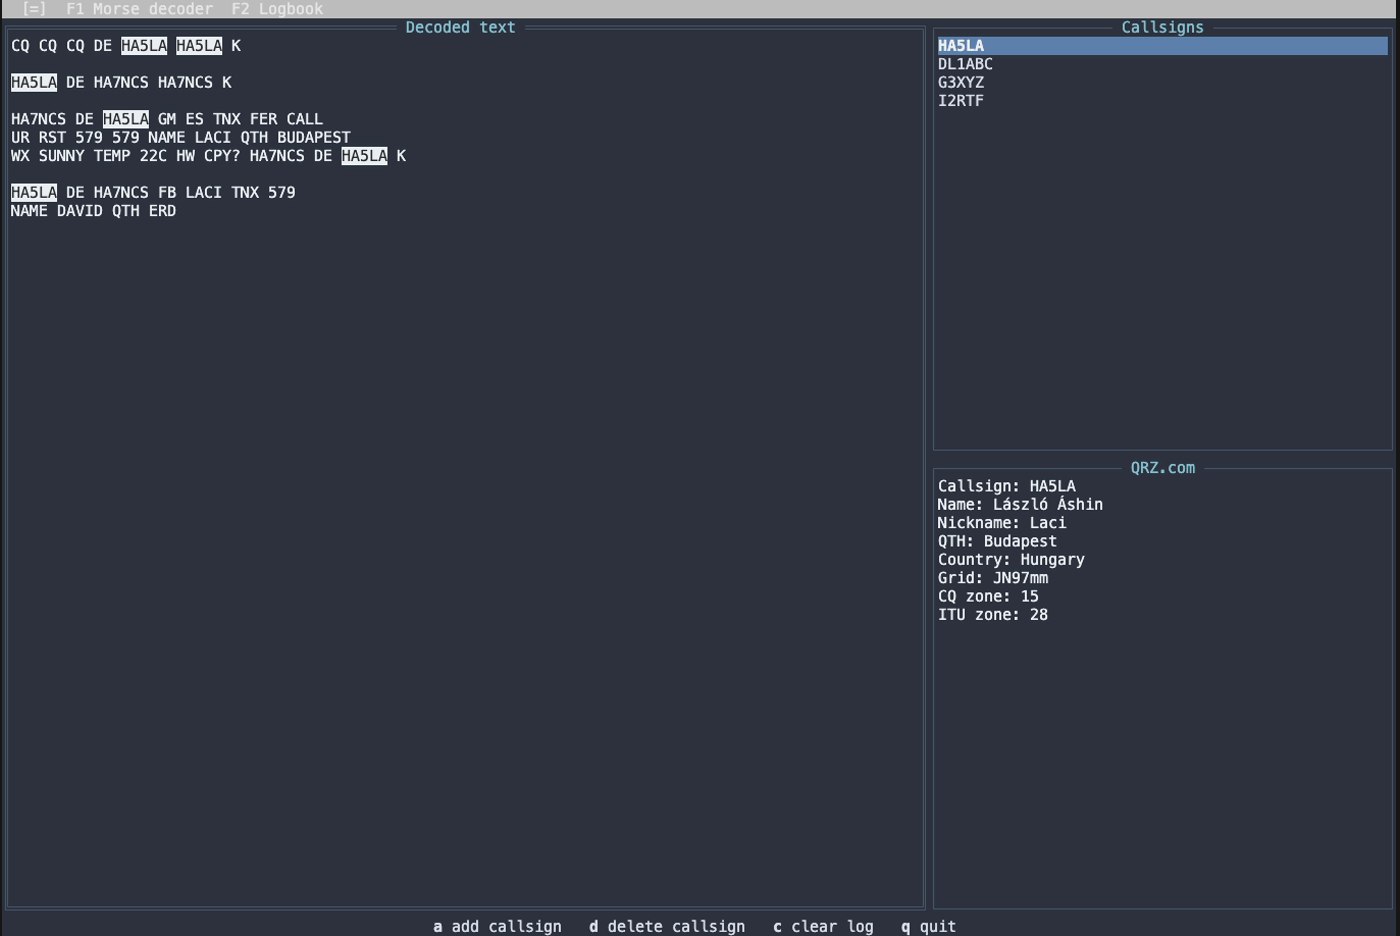
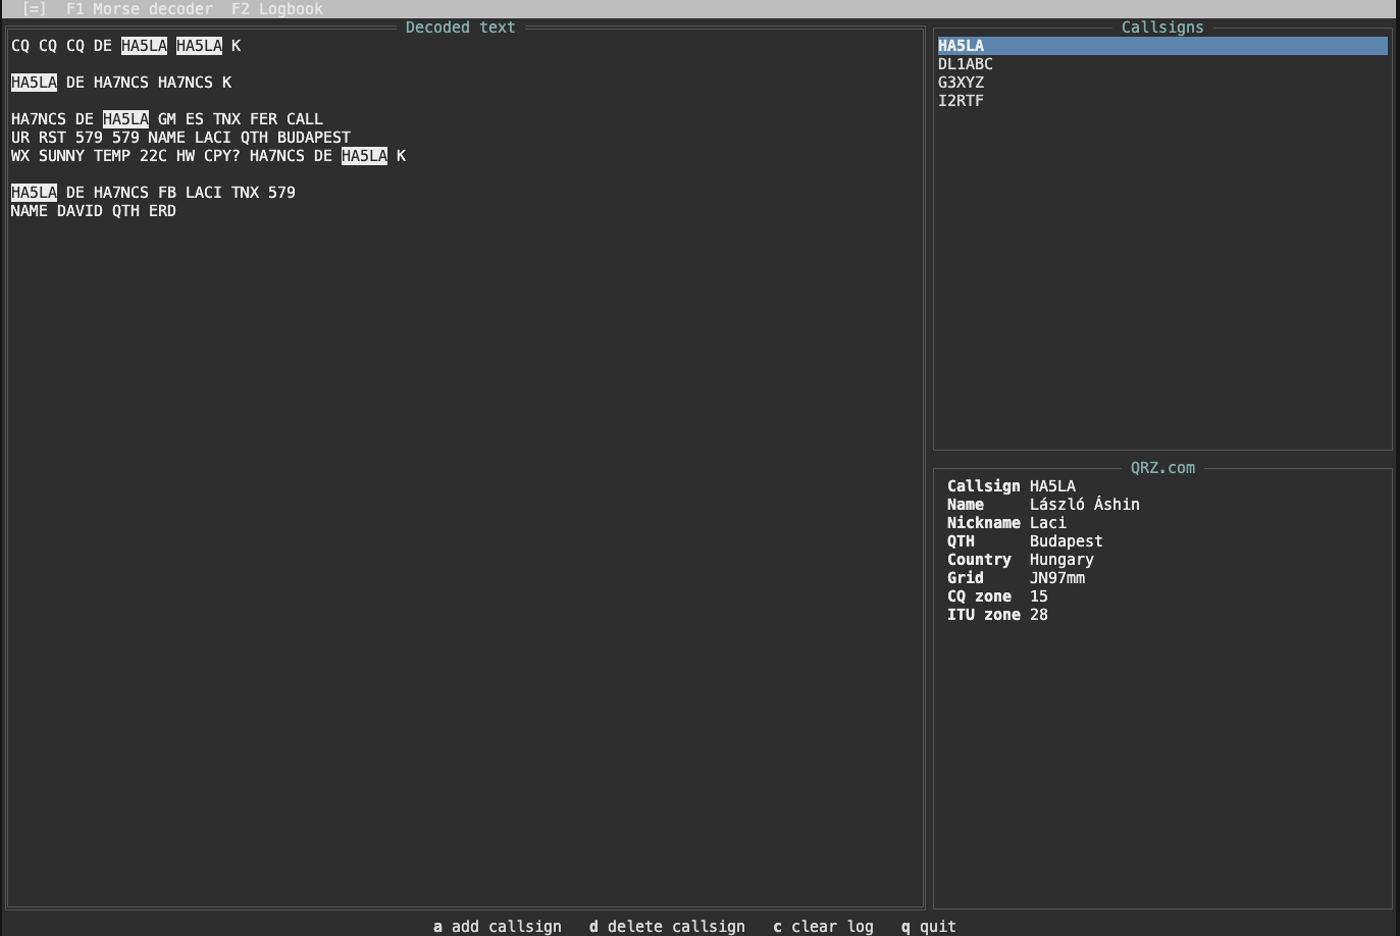
callsign details in morse view

Changed region(s): [[0.645, 0.4957, 0.86, 0.6816], [0.7986, 0.0, 0.86, 0.031], [0.3071, 0.0, 0.3686, 0.031]]

diff --git a/internal/decoder/tui/callsign_details.go b/internal/decoder/tui/callsign_details.go
@@ -1,0 +1,152 @@
+package tui
+
+import (
+	"strings"
+
+	"ditdah/internal/callsign"
+	"ditdah/internal/optional"
+	"ditdah/internal/tui/components"
+
+	"github.com/gdamore/tcell/v2"
+	"github.com/mattn/go-runewidth"
+	"github.com/rivo/tview"
+)
+
+type callsignDetailField struct {
+	label string
+	value string
+}
+
+type callsignDetailsView struct {
+	components.TextView
+	fields        []callsignDetailField
+	message       string
+	renderedWidth int
+}
+
+func newCallsignDetailsView(controls components.Factory) *callsignDetailsView {
+	text := controls.TextView()
+	text.SetDynamicColors(true)
+	text.SetScrollable(true)
+	text.SetWrap(false)
+	text.SetBorder(" QRZ.com ")
+	return &callsignDetailsView{TextView: text, renderedWidth: -1}
+}
+
+func (v *callsignDetailsView) setMessage(message string) {
+	v.fields = nil
+	v.message = message
+	v.renderedWidth = -1
+	v.SetText(message)
+	v.ScrollToStart()
+}
+
+func (v *callsignDetailsView) setEntry(entry callsign.Entry) {
+	if entry.Status == callsign.StatusError {
+		v.setMessage(strings.TrimSpace(entry.Error))
+		return
+	}
+	record, present := entry.Record.Get()
+	if !present {
+		v.setMessage("No QRZ.com details available.")
+		return
+	}
+
+	v.fields = []callsignDetailField{
+		{label: "Callsign", value: record.Callsign},
+		optionalCallsignDetail("Name", record.Name),
+		optionalCallsignDetail("Nickname", record.Nickname),
+		optionalCallsignDetail("QTH", record.QTH),
+		optionalCallsignDetail("State", record.State),
+		optionalCallsignDetail("Country", record.Country),
+		optionalCallsignDetail("Grid", record.Grid),
+		optionalCallsignDetail("CQ zone", record.CQZone),
+		optionalCallsignDetail("ITU zone", record.ITUZone),
+		optionalCallsignDetail("QRZ", record.QRZURL),
+	}
+	v.fields = visibleCallsignDetails(v.fields)
+	v.message = ""
+	v.renderedWidth = -1
+	v.SetText("")
+	v.ScrollToStart()
+}
+
+func (v *callsignDetailsView) Draw(screen tcell.Screen) {
+	_, _, width, _ := v.InnerRect()
+	if width != v.renderedWidth {
+		if v.fields != nil {
+			v.SetText(renderCallsignDetails(v.fields, width))
+		} else {
+			v.SetText(strings.Join(tview.WordWrap(v.message, width), "\n"))
+		}
+		v.renderedWidth = width
+	}
+	v.TextView.Draw(screen)
+}
+
+func optionalCallsignDetail(
+	label string,
+	value optional.Value[string],
+) callsignDetailField {
+	text, present := value.Get()
+	if !present {
+		return callsignDetailField{}
+	}
+	return callsignDetailField{label: label, value: strings.TrimSpace(text)}
+}
+
+func visibleCallsignDetails(
+	fields []callsignDetailField,
+) []callsignDetailField {
+	visible := fields[:0]
+	for _, field := range fields {
+		if field.value != "" {
+			visible = append(visible, field)
+		}
+	}
+	return visible
+}
+
+func renderCallsignDetails(fields []callsignDetailField, width int) string {
+	if width < 1 {
+		return ""
+	}
+	labelWidth := 0
+	for _, field := range fields {
+		labelWidth = max(labelWidth, runewidth.StringWidth(field.label))
+	}
+	labelWidth = min(labelWidth, max(1, width-3))
+	valueWidth := width - labelWidth - 2
+
+	var text strings.Builder
+	for _, field := range fields {
+		if valueWidth < 1 {
+			for _, line := range tview.WordWrap(field.label+" "+field.value, width) {
+				text.WriteString(tview.Escape(line))
+				text.WriteByte('\n')
+			}
+			continue
+		}
+
+		values := tview.WordWrap(field.value, valueWidth)
+		if len(values) == 0 {
+			values = []string{""}
+		}
+		for index, value := range values {
+			label := ""
+			if index == 0 {
+				label = runewidth.Truncate(field.label, labelWidth, "")
+				label = runewidth.FillRight(label, labelWidth)
+				label = "[::b]" + tview.Escape(label) + "[-:-:-]"
+			} else {
+				label = strings.Repeat(" ", labelWidth)
+			}
+			text.WriteByte(' ')
+			text.WriteString(label)
+			text.WriteByte(' ')
+			text.WriteString(tview.Escape(value))
+			text.WriteByte('\n')
+		}
+	}
+	return text.String()
+}

diff --git a/internal/decoder/tui/page.go b/internal/decoder/tui/page.go
@@ -10,7 +10,6 @@ import (
 	"ditdah/internal/audio"
 	"ditdah/internal/callsign"
 	domain "ditdah/internal/decoder"
-	"ditdah/internal/optional"
 	"ditdah/internal/radio"
 	"ditdah/internal/settings"
 	"ditdah/internal/syncutil"
@@ -51,7 +50,7 @@ type page struct {
 	output           components.TextView
 	right            tview.Primitive
 	callsignList     components.Table
-	details          components.TextView
+	details          *callsignDetailsView
 	audioStatus      string
 	radioStatus      string
 	lookups          syncutil.Mailbox[lookupRequest]
@@ -161,12 +160,8 @@ func newPageWithState(
 
 	page.output = output
 	page.callsignList = page.newCallsignList(controls)
-	page.details = controls.TextView()
+	page.details = newCallsignDetailsView(controls)
 	page.details.SetStyle(components.TextViewPrimary)
-	page.details.SetBorder(" QRZ.com ")
-	page.details.SetScrollable(true)
-	page.details.SetWrap(true)
-	page.details.SetWordWrap(true)
 	page.renderCallsigns()
 	page.renderDecodedText()
 
@@ -315,11 +310,11 @@ func (p *page) showLookupResult(
 		}
 		if err != nil {
 			p.details.SetStyle(components.TextViewDanger)
-			p.details.SetText("Error: " + err.Error())
+			p.details.setMessage("Error: " + err.Error())
 			return
 		}
 		p.details.SetStyle(components.TextViewPrimary)
-		p.details.SetText(formatCallsignDetails(entry))
+		p.details.setEntry(entry)
 	})
 }
 
@@ -328,32 +323,6 @@ func (p *page) openCreateQSO() {
 		return
 	}
 	p.showNewQSOEditor(p, p.selectedCallsign)
-}
-
-func formatCallsignDetails(entry callsign.Entry) string {
-	if entry.Status == callsign.StatusError {
-		return strings.TrimSpace(entry.Error)
-	}
-	record, present := entry.Record.Get()
-	if !present {
-		return "No QRZ.com details available."
-	}
-	lines := []string{"Callsign: " + record.Callsign}
-	appendOptionalDetail := func(label string, value optional.Value[string]) {
-		if text, ok := value.Get(); ok && strings.TrimSpace(text) != "" {
-			lines = append(lines, label+": "+text)
-		}
-	}
-	appendOptionalDetail("Name", record.Name)
-	appendOptionalDetail("Nickname", record.Nickname)
-	appendOptionalDetail("QTH", record.QTH)
-	appendOptionalDetail("State", record.State)
-	appendOptionalDetail("Country", record.Country)
-	appendOptionalDetail("Grid", record.Grid)
-	appendOptionalDetail("CQ zone", record.CQZone)
-	appendOptionalDetail("ITU zone", record.ITUZone)
-	appendOptionalDetail("QRZ", record.QRZURL)
-	return strings.Join(lines, "\n")
 }
 
 func (p *page) runSession(

diff --git a/internal/decoder/tui/callsign_details_test.go b/internal/decoder/tui/callsign_details_test.go
@@ -1,0 +1,79 @@
+package tui
+
+import (
+	"strings"
+	"testing"
+
+	"ditdah/internal/callsign"
+	"ditdah/internal/optional"
+
+	"github.com/gdamore/tcell/v2"
+)
+
+func TestCallsignDetailsAlignLabelsAndValues(t *testing.T) {
+	view := newCallsignDetailsView(newTestHost().Components())
+	view.setEntry(callsign.Entry{
+		Status: callsign.StatusReady,
+		Record: optional.Some(callsign.Record{
+			Callsign: "HA5LA",
+			Name:     optional.Some("Laszlo"),
+			Nickname: optional.Some("Laci"),
+			Grid:     optional.Some("JN97mm"),
+		}),
+	})
+
+	screen := newCallsignDetailsScreen(t, 48, 8)
+	view.SetRect(0, 0, 48, 8)
+	view.Draw(screen)
+
+	assertCallsignDetailsRune(t, screen, 2, 1, 'C')
+	assertCallsignDetailsRune(t, screen, 11, 1, 'H')
+	assertCallsignDetailsRune(t, screen, 11, 2, 'L')
+	assertCallsignDetailsRune(t, screen, 11, 3, 'L')
+	assertCallsignDetailsRune(t, screen, 11, 4, 'J')
+}
+
+func TestCallsignDetailsIndentWrappedValues(t *testing.T) {
+	view := newCallsignDetailsView(newTestHost().Components())
+	view.fields = []callsignDetailField{{
+		label: "Name",
+		value: strings.Repeat("Long value ", 8),
+	}}
+	view.renderedWidth = -1
+
+	screen := newCallsignDetailsScreen(t, 24, 8)
+	view.SetRect(0, 0, 24, 8)
+	view.Draw(screen)
+
+	assertCallsignDetailsRune(t, screen, 7, 1, 'L')
+	assertCallsignDetailsRune(t, screen, 7, 2, 'v')
+}
+
+func newCallsignDetailsScreen(
+	t *testing.T,
+	width int,
+	height int,
+) tcell.SimulationScreen {
+	t.Helper()
+	screen := tcell.NewSimulationScreen("UTF-8")
+	if err := screen.Init(); err != nil {
+		t.Fatal(err)
+	}
+	t.Cleanup(screen.Fini)
+	screen.SetSize(width, height)
+	return screen
+}
+
+func assertCallsignDetailsRune(
+	t *testing.T,
+	screen tcell.SimulationScreen,
+	x int,
+	y int,
+	want rune,
+) {
+	t.Helper()
+	got, _, _, _ := screen.GetContent(x, y)
+	if got != want {
+		t.Fatalf("screen cell (%d, %d) = %q, want %q", x, y, got, want)
+	}
+}

diff --git a/internal/decoder/tui/page_test.go b/internal/decoder/tui/page_test.go
@@ -396,9 +396,10 @@ func TestPageLooksUpSelectedCallsignDuringRun(t *testing.T) {
 	}
 	close(lookup.release)
 	waitForSignal(t, host.updated, "callsign details update")
-	if details := page.details.Text(); !strings.Contains(details, "Name: Jane Doe") ||
-		!strings.Contains(details, "Country: Germany") ||
-		!strings.Contains(details, "Grid: JO62") {
+	details := renderCallsignDetails(page.details.fields, 46)
+	if !strings.Contains(details, "Name") || !strings.Contains(details, "Jane Doe") ||
+		!strings.Contains(details, "Country") || !strings.Contains(details, "Germany") ||
+		!strings.Contains(details, "Grid") || !strings.Contains(details, "JO62") {
 		t.Fatalf("details = %q", details)
 	}
 

diff --git a/internal/decoder/tui/screenshot.go b/internal/decoder/tui/screenshot.go
@@ -26,7 +26,7 @@ func NewScreenshotPage(host ui.PageHost) ui.Page {
 			"NAME DAVID QTH ERD\n",
 	)
 	page.renderDecodedText()
-	page.details.SetText(formatCallsignDetails(callsign.Entry{
+	page.details.setEntry(callsign.Entry{
 		Status: callsign.StatusReady,
 		Record: optional.Some(callsign.Record{
 			Callsign: "HA5LA",
@@ -38,6 +38,6 @@ func NewScreenshotPage(host ui.PageHost) ui.Page {
 			CQZone:   optional.Some("15"),
 			ITUZone:  optional.Some("28"),
 		}),
-	}))
+	})
 	return page
 }

diff --git a/internal/decoder/tui/callsigns.go b/internal/decoder/tui/callsigns.go
@@ -70,10 +70,10 @@ func (p *page) requestSelectedCallsign() {
 	}
 	if request.callsign == "" {
 		p.details.SetStyle(components.TextViewPrimary)
-		p.details.SetText("")
+		p.details.setMessage("")
 	} else {
 		p.details.SetStyle(components.TextViewMuted)
-		p.details.SetText("Loading " + request.callsign + "...")
+		p.details.setMessage("Loading " + request.callsign + "...")
 	}
 	p.lookups.Send(request)
 	p.host.Refresh()

diff --git a/ROADMAP.md b/ROADMAP.md
@@ -103,6 +103,7 @@ This document records implementation decisions and future technical work.
 - [x] Add the Morse user-interface page shell.
 - [x] Split the Morse page into a large scrollable decoded-text panel and a reserved right-side panel.
 - [x] Connect the selected live audio capture device to the streaming decoder and Morse output panel; coalesce saved input changes through a trigger and restart only the current audio session.
+- [x] Align QRZ lookup labels and values into consistent columns on the Morse decoder page.
 - [x] Add a decoder-page callsign list with `a`/`Enter`/`d` actions and cached QRZ.com details for the selected entry in the lower-right panel.
 - [x] Run decoder callsign lookups in a context-bound page worker which is always joined by `Run`; retry the selected callsign on page reactivation without detached goroutines.
 - [x] Highlight every substring occurrence of the selected decoder callsign in the decoded log, add a confirmed clear-log action, and follow new output only while the view is already scrolled to the end.
